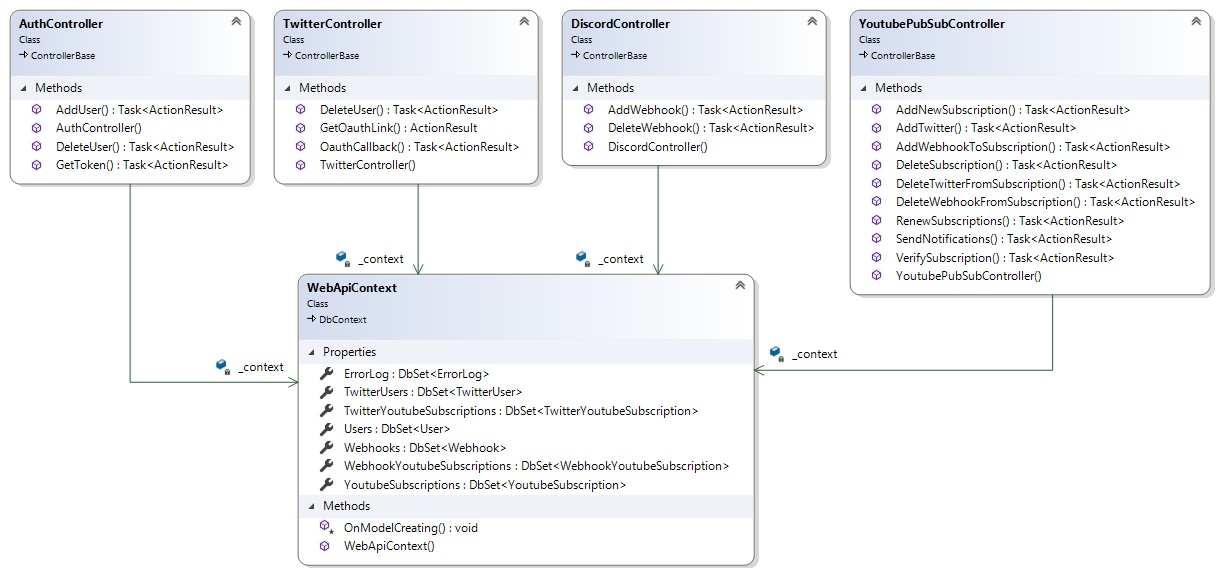
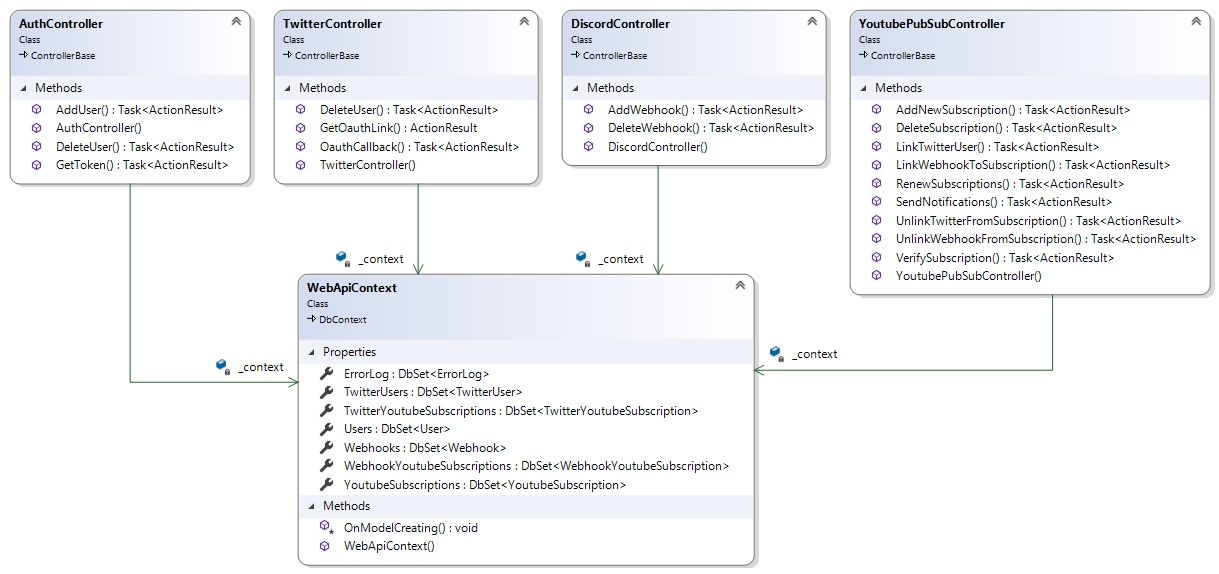
Chnaged diagrams, renamed methods

Changed region(s): [[0.717, 0.2073, 0.9664, 0.4443]]

diff --git a/ComputerScienceServer/Controllers/YoutubePubSubController.cs b/ComputerScienceServer/Controllers/YoutubePubSubController.cs
@@ -39,9 +39,9 @@ namespace ComputerScienceServer.Controllers
 			return Ok();
 		}
 
-		[HttpPost("AddWebhook")]
+		[HttpPost("LinkWebhook")]
 		[Consumes("application/json")]
-		public async Task<ActionResult> AddWebhookToSubscription(
+		public async Task<ActionResult> LinkWebhookToSubscription(
 			[FromBody] WebhookYoutubeSubscription webhookYoutube)
 		{
 			if (!_context.Webhooks.All(webhook => webhook.Id == webhookYoutube.Id) ||
@@ -56,14 +56,14 @@ namespace ComputerScienceServer.Controllers
 			return NoContent();
 		}
 
-		public async Task<ActionResult> DeleteWebhookFromSubscription()
+		public async Task<ActionResult> UnlinkWebhookFromSubscription()
 		{
 			return Ok();
 		}
 
-		[HttpPost("AddTwitter")]
+		[HttpPost("LinkTwitter")]
 		[Consumes("application/json")]
-		public async Task<ActionResult> AddTwitter(
+		public async Task<ActionResult> LinkTwitterUser(
 			[FromBody] TwitterYoutubeSubscription twitterYoutube)
 		{
 			//Check that both the twitter account and youtube subscription exists in the database
@@ -79,7 +79,7 @@ namespace ComputerScienceServer.Controllers
 			return NoContent();
 		}
 
-		public async Task<ActionResult> DeleteTwitterFromSubscription()
+		public async Task<ActionResult> UnlinkTwitterFromSubscription()
 		{
 			return Ok();
 		}
